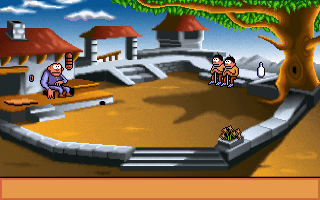
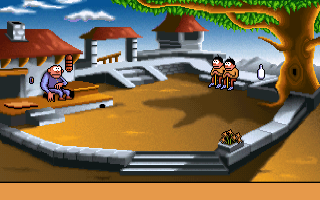
Added second scene in the Goblin demo, to demonstrate the screen switching mechanism. Fixed a few bugs that came up when switching screen.

diff --git a/projects/goblin/src/scene.c b/projects/goblin/src/scene.c
@@ -12,7 +12,7 @@
 #endif
 
 // DO NOT CHANGE ORDER: This data is loaded sequentially from file
-unsigned char num_polygon, num_interacts, num_triggers, num_paths;
+unsigned char num_polygon, num_interacts, num_triggers, num_modifiers, num_paths;
 signed int polygonX[MAX_POLYGON];
 signed int polygonY[MAX_POLYGON];
 Interact interacts[MAX_INTERACT]; 
@@ -43,19 +43,23 @@ void LoadScene(unsigned char* scene)
 {	
 	unsigned char fname[13];
 	unsigned char i, l, *coords;
+
+	// Disable sprites/bitmap/music
+	DisableSprite(-1);
+	HideBitmap();
+	StopMusic();	
 	
 	// Prepare filename
 	l = strlen(scene);
 	memcpy(fname, scene, l);
 	
 	// Load bitmap
-	HideBitmap();
-	memcpy(&fname[l], ".img\0", 4);
+	memcpy(&fname[l], ".img\0", 5);
 	LoadBitmap(fname);
-	ShowBitmap();
 	
 	// Load chunks/backgrounds
-	memcpy(&fname[l], ".chk\0", 4);
+	FreeChunk(0);
+	memcpy(&fname[l], ".chk\0", 5);
 	num_chunks = LoadChunks(chunkData, fname);
 	for (i=0; i<num_chunks; i++) {
 		coords = chunkData[i]; 
@@ -63,7 +67,7 @@ void LoadScene(unsigned char* scene)
 	}
 	
 	// Load navigation
-	memcpy(&fname[l], ".nav\0", 4);
+	memcpy(&fname[l], ".nav\0", 5);
 	if (FileOpen(fname)) {
 		FileRead(&num_polygon, -1);
 		FileClose();
@@ -78,6 +82,17 @@ void LoadScene(unsigned char* scene)
 	SetAttributes(paperColor); txtY--;
 	txtX = 0; PrintBlanks(TXT_COLS, 2);	
 #endif	
+
+	// Enable sprites/bitmap/music
+	EnableSprite(0);  // Mouse cursor
+	EnableSprite(1);  // Unit #1
+#if defined(__ATARI__) || defined(__CBM__ )
+	EnableSprite(2);  // Unit #1 (extra color)
+	EnableSprite(3);  // Unit #1 (extra color)
+	EnableSprite(4);  // Unit #1 (extra color)
+#endif	
+	ShowBitmap();
+	PlayMusic();
 }
 
 // Draw chunk to screen
@@ -127,7 +142,7 @@ unsigned char SearchScene(unsigned int searchX, unsigned int searchY)
 }
 
 // Process interactable object
-unsigned char ProcessInteract(unsigned char target, unsigned char item)
+unsigned char *ProcessInteract(unsigned char target, unsigned char item)
 {
 	Path *path;
 	Trigger *trigger;
@@ -202,6 +217,10 @@ unsigned char ProcessInteract(unsigned char target, unsigned char item)
 		}
 		
 	} else {		
+		// If this a load scene interact?
+		if (interact->flags & LOADSCENE)
+			return &strings[interact->question];
+	
 		// Process question (if any)
 		if (interact->question) {
 			inkColor = INK_GOBLIN;
@@ -210,17 +229,16 @@ unsigned char ProcessInteract(unsigned char target, unsigned char item)
 		}
 		
 		// Display chunk (if any)
-		if (interact->chk != 255)
+		if (interact->chk != 255) {
 			DrawChunk(interact->chk);
+		}
 		
 		// Process answer (if any)
 		if (interact->answer) {
 			inkColor = INK_INTERACT;
-			PrintMessage(interact->answer);
-			if (interact->path == 255)
-				Wait(120);			
+			PrintMessage(interact->answer);		
 		}		
-
+		
 		// Process path (if any)
 		if (interact->path != 255) {
 			path = &paths[interact->path];
@@ -239,6 +257,9 @@ unsigned char ProcessInteract(unsigned char target, unsigned char item)
 				path = &paths[path->next];
 			}
 			goalX = path->x; goalY = path->y;
+		} else {
+			if (interact->chk != 255 || interact->answer)
+				Wait(120);	
 		}
 		
 		// Restore background (if any)
@@ -248,13 +269,10 @@ unsigned char ProcessInteract(unsigned char target, unsigned char item)
 		// Process pickable item
 		if (interact->flags & PICKABLE) {
 			PushItem(interact->label);
-			interact->flags = INACTIVE;
+			interact->flags = DISABLED;
 		}	
 	}
-	
-	// Check is quest is completed
-	if (target == 6) return 1;
-	
+		
 	// Clean-up
 	PrintMessage(0);
 #if defined(__NES__)

diff --git a/projects/goblin/src/goblin.c b/projects/goblin/src/goblin.c
@@ -26,6 +26,7 @@
 #endif
 
 // Accessible polygon in scene
+extern unsigned char num_polygon;
 extern signed int polygonX[];
 extern signed int polygonY[];
 
@@ -43,7 +44,11 @@ void GameLoop(void)
 {
 	signed int interX, interY, deltaX, deltaY;
 	clock_t gameClock = clock();
+	unsigned char* scene;
 	
+	// Load first scene
+	LoadScene("scene01");
+
 	while (1) {
 	#if defined __APPLE2__
 		clk += 1;  // Manually update clock on Apple 2
@@ -101,13 +106,13 @@ void GameLoop(void)
 				}
 			
 				// Compute goal coordinates
-				intersect = IntersectSegmentPolygon(unitX, unitY, clickX, clickY, MAX_POLYGON, polygonX, polygonY, &interX, &interY);
+				intersect = IntersectSegmentPolygon(unitX, unitY, clickX, clickY, num_polygon, polygonX, polygonY, &interX, &interY);
 				if (intersect && (unitX != interX || unitY != interY)) { 	// Check that we are not stuck on a polygon segment
 					goalX = interX;
 					goalY = interY;
 				} else {
 					// Move directly to mouse cursor (if in allowed area, and not crossing other parts of polygon)
-					if (intersect < 2 && PointInsidePolygon(clickX, clickY, MAX_POLYGON, polygonX, polygonY)) {
+					if (intersect < 2 && PointInsidePolygon(clickX, clickY, num_polygon, polygonX, polygonY)) {
 						goalX = clickX;
 						goalY = clickY;
 					}
@@ -143,7 +148,11 @@ void GameLoop(void)
 			} else {
 				// Process trigger (if any) and set wait frame
 				if (sceneInteract != 255) {
-					if (ProcessInteract(sceneInteract, sceneItem)) return;
+					scene = ProcessInteract(sceneInteract, sceneItem);
+					if (scene) {
+						unitX = 320-unitX; goalX = unitX; goalY = unitY;						
+						LoadScene(scene);
+					}
 					sceneInteract = 255;
 					sceneItem = 255;
 				}
@@ -167,46 +176,31 @@ int main(void)
 	
 	// Setup sprites
 	LoadSprites("sprites.dat", spriteColors);
-	
-	// Enable sprites
-	EnableSprite(0);  // Mouse cursor
-	EnableSprite(1);  // Unit #1
 #if defined __APPLE2__
-	CropSprite(0,8); // Mouse cursor only occupies third of frame
-#elif defined __ATARI__
-	EnableSprite(2);  // Unit #1 (extra color)
-	EnableSprite(3);  // Unit #1 (extra color)
-	EnableSprite(4);  // Unit #1 (extra color)
+	CropSprite(0,8); // Mouse cursor only occupies third of frame	
 #elif defined __ORIC__
 	CropSprite(0,8);  // Mouse cursor only occupies half frame
 	MultiColorSprite(1, multiColorDef);	// Make sprite 1 multi-colored
 #elif defined __CBM__ 
-	EnableSprite(2);  // Unit #1 (extra color)	
-	EnableSprite(3);  // Unit #1 (extra color)
-	EnableSprite(4);  // Unit #1 (extra color)
 	DoubleHeightSprite(1, 1);
 	DoubleHeightSprite(2, 1);
 	DoubleHeightSprite(3, 1);
 	DoubleHeightSprite(4, 1);
-#endif	
+#endif
 
 	// Load music
 	LoadMusic("goblin.mus");
 	
 	// Show splash screen
 	SplashScreen();
-
-	// Prepare scene
-	LoadScene("scene01");
 	
 	// Run game loop
-	PlayMusic();
 	GameLoop();
-	StopMusic();
 	
 	// Black-out screen and clear key
 	DisableSprite(-1);	// "-1" disables all sprites
 	HideBitmap();
+	StopMusic();
 	StopSFX();
 	
     // Done

diff --git a/projects/goblin/src/definitions.h b/projects/goblin/src/definitions.h
@@ -1,6 +1,24 @@
 
 #include "unity.h"
 
+// Scene interactable flags
+#define DISABLED  0
+#define ACTIVE    1
+#define PICKABLE  2
+#define LOADSCENE 4
+
+// Scene navigation data (loaded from file)
+#define MAX_POLYGON  25
+#define MAX_CHUNK     6
+#define MAX_INTERACT  7
+#define MAX_TRIGGER   5
+#define MAX_MODIFIER  2
+#define MAX_PATH      6
+
+// Inventory management
+#define MAX_ITEM 	  2
+#define INVENTORY_Y 180
+
 // Text colors
 #if defined __NES__	
 	#define MSG_WIDTH	   TXT_COLS
@@ -63,23 +81,6 @@
 #define frameWalkRightBeg 9
 #define frameWalkRightEnd 13
 
-// Scene interactable flags
-#define INACTIVE 0
-#define ACTIVE   1
-#define PICKABLE 2
-
-// Scene navigation data (loaded from file)
-#define MAX_POLYGON  19
-#define MAX_CHUNK     5
-#define MAX_INTERACT  7
-#define MAX_TRIGGER   5
-#define MAX_MODIFIER  2
-#define MAX_PATH      6
-
-// Inventory management
-#define MAX_ITEM 	  2
-#define INVENTORY_Y 180
-
 // Interact Objects 
 typedef struct {
 	unsigned int label;							// Identifier
@@ -133,5 +134,5 @@ void PushItem(unsigned int label);
 void PopItem(unsigned char index);
 unsigned char SelectItem(unsigned int x, unsigned int y);
 unsigned char SearchScene(unsigned int searchX, unsigned int searchY);
-unsigned char ProcessInteract(unsigned char index, unsigned char item);
+unsigned char *ProcessInteract(unsigned char index, unsigned char item);
 void Wait(unsigned char ticks);

diff --git a/projects/goblin/navigation/_txt2nav_.py b/projects/goblin/navigation/_txt2nav_.py
@@ -38,9 +38,10 @@ def append(text):
 
 global strings
 
-DISABLED = 0
-ACTIVE   = 1
-PICKABLE = 2
+DISABLED  = 0
+ACTIVE    = 1
+PICKABLE  = 2
+LOADSCENE = 4
 
 scenes = [f.replace('.txt','') for f in os.listdir('.') if (f.endswith('.txt') and 'readme' not in f)]
 
@@ -89,6 +90,8 @@ for scene in scenes:
                 flags |= ACTIVE
             if "PICKABLE" in interact[6]:
                 flags |= PICKABLE
+            if "LOADSCENE" in interact[6]:
+                flags |= LOADSCENE
             interact[6] = flags
             
             # Clean strings
@@ -152,6 +155,7 @@ for scene in scenes:
     f2.write(struct.pack('B', len(polygon[0])))
     f2.write(struct.pack('B', len(interacts)))
     f2.write(struct.pack('B', len(triggers)))
+    f2.write(struct.pack('B', len(modifiers)))
     f2.write(struct.pack('B', len(paths)))
     
     # Polygons
